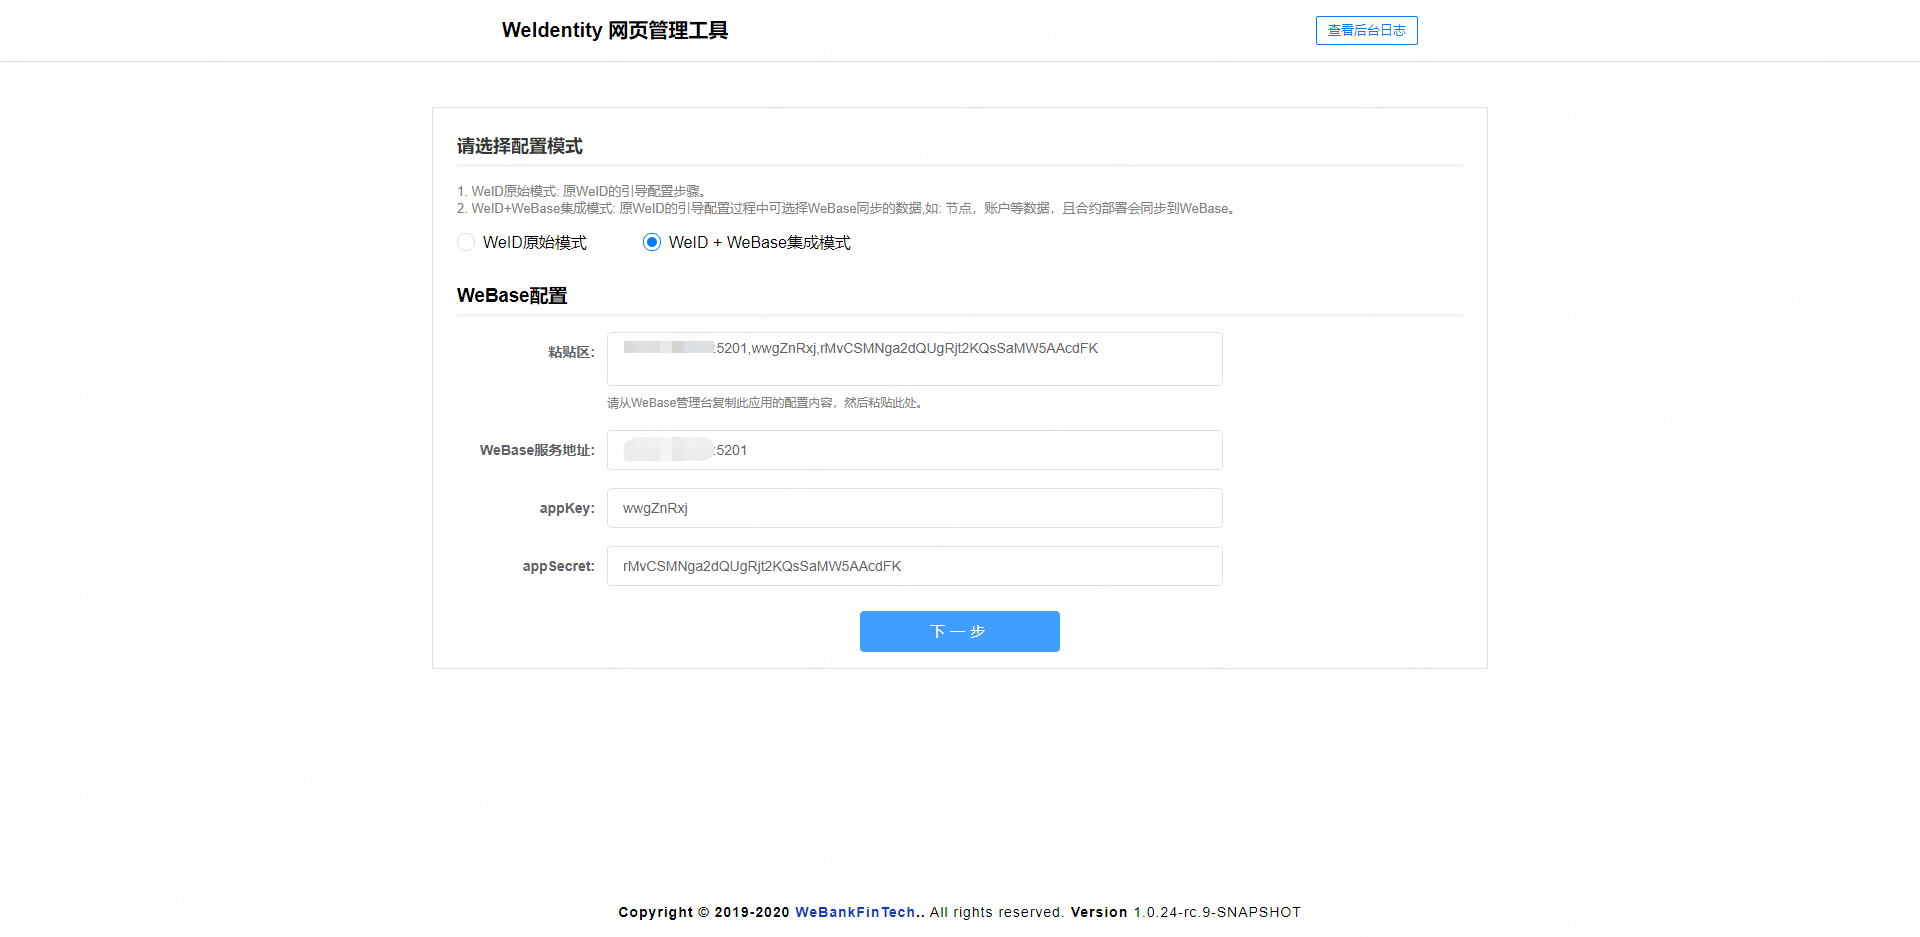
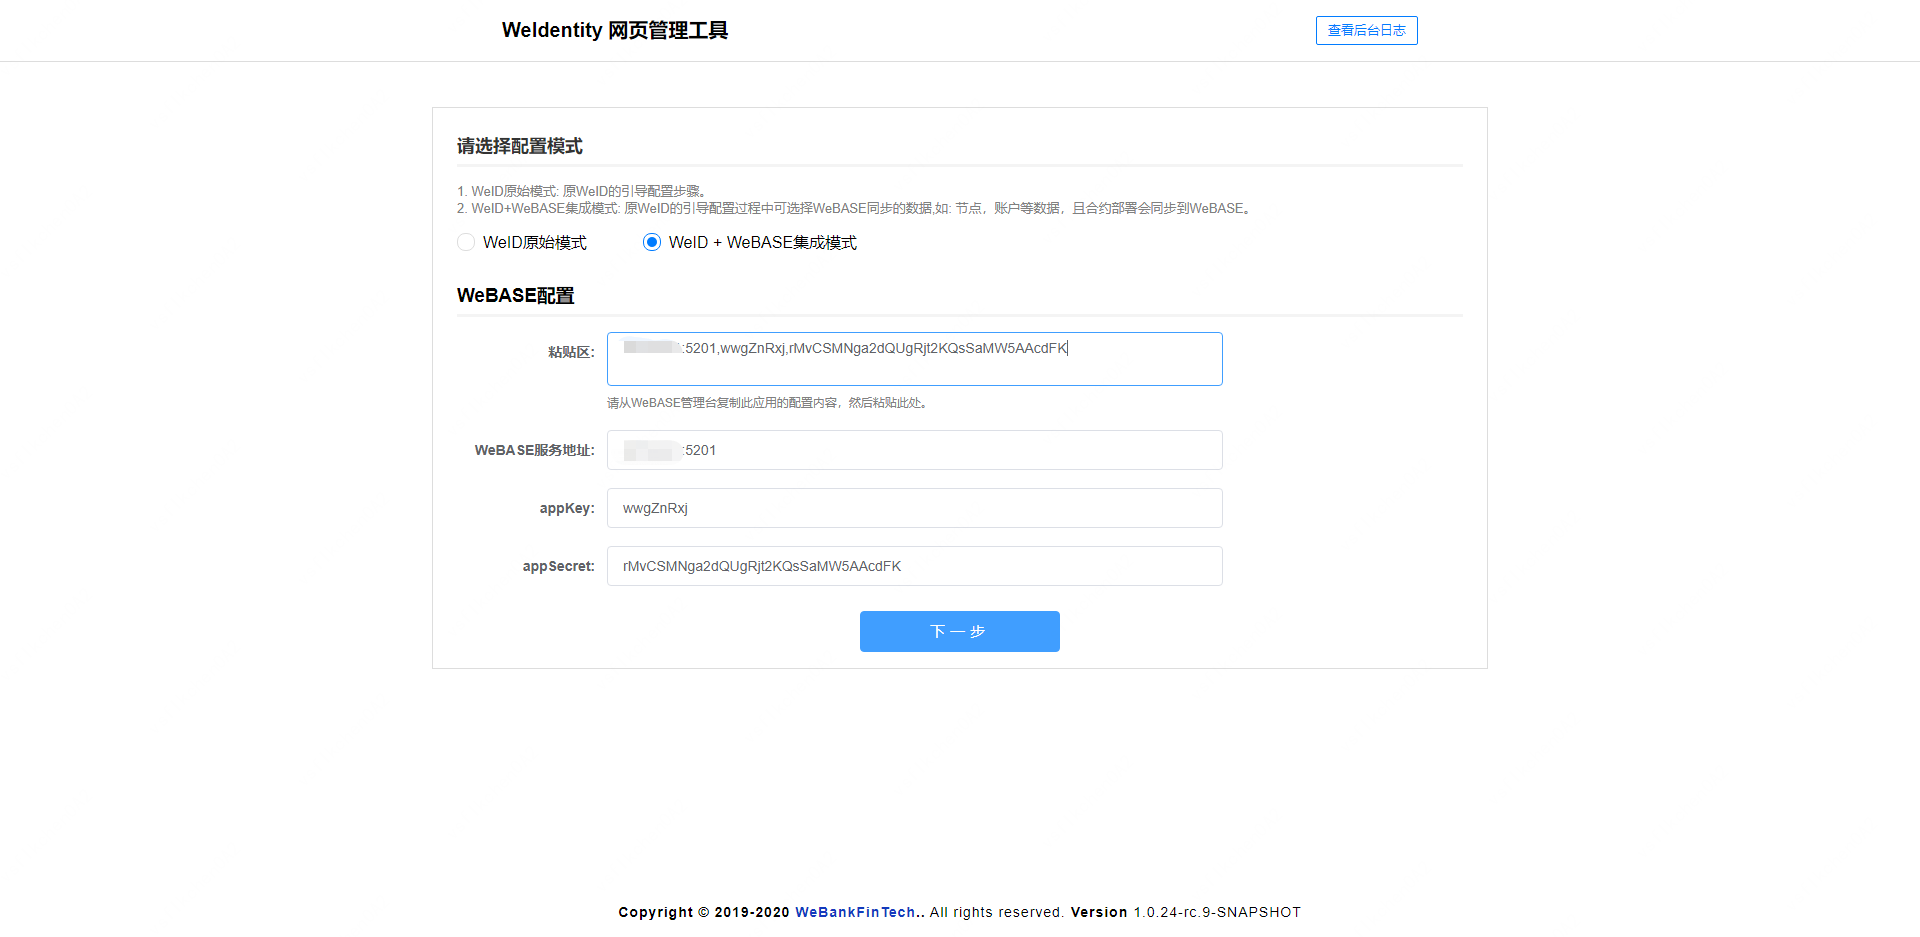
fix WeBASE

diff --git a/docs_en/index.rst b/docs_en/index.rst
@@ -1,5 +1,5 @@
 ##############################################################
-Webase Technical Documents
+WeBASE Technical Documents
 ##############################################################
 
 .. image:: ../images/logo/logo.jpg
